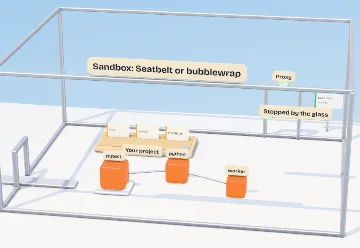
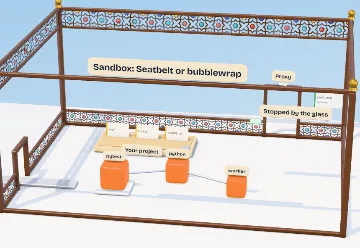
Hold the sandbox's glass in walnut lattice, as an orosi holds its glass
Walnut posts and rails with brass finials, and bands of gereh-chini lattice with coloured glass in
its stars along the top and foot of the walls; the panes between stay clear and the front open.
The trip's stage matches, leaving the rail's slot and the proxy's door clear; Copilot's ghost of a
sandbox has no lattice.

diff --git a/src/lib/journey/tracks/sandbox.ts b/src/lib/journey/tracks/sandbox.ts
@@ -9,6 +9,8 @@ import { font } from '../kit/print';
 import { createIsland } from '../props/island';
 import { Cloudscape } from '../props/sky';
 import { low, TOOLS } from '../layout';
+import { palette } from '../sky/palette';
+import { latticeBand, latticeMaterial } from '../sky/persian';
 import type { HarnessId } from '../content';
 import type { Shot } from '../rig';
 
@@ -215,6 +217,8 @@ export class SandboxStage {
 	private outside: Record<'files' | 'mcp' | 'hooks', THREE.Group>;
 	private question: Card;
 	private glassMat: THREE.MeshPhysicalMaterial;
+	/** The lattice in the glass's walls: Copilot's glass, only a ghost of one, has none. */
+	private lattice: THREE.Object3D;
 	private signs: Record<HarnessId, THREE.Group>;
 	private harnessId: HarnessId = 'claude';
 	private v = new THREE.Vector3();
@@ -354,28 +358,71 @@ export class SandboxStage {
 		dialSign.position.set(DIAL_AT.x, 2.46 + grown(0.16), DIAL_AT.z);
 		g.add(dialSign);
 
-		/* -- the glass -- */
+		/* -- the glass, held as the story's is: walnut posts and rails, brass finials, bands of lattice (sky/persian.ts) -- */
+		const pc = palette();
+		const wood = pc.walnut;
 		const frame = new Batch();
-		for (const x of [G0, G1]) for (const z of [GZ0, GZ1]) frame.add(rbox(0.14, GH, 0.14, 0.04, 2), m.steel, { p: [x, GH / 2, z] });
+		for (const x of [G0, G1])
+			for (const z of [GZ0, GZ1]) {
+				frame.add(rbox(0.18, GH, 0.18, 0.04, 2), wood, { p: [x, GH / 2, z] });
+				frame.add(new THREE.CylinderGeometry(0.1, 0.13, 0.08, 14), pc.brass, { p: [x, GH + 0.1, z] });
+				frame.add(new THREE.SphereGeometry(0.12, 14, 10), pc.brass, { p: [x, GH + 0.25, z] });
+			}
 		for (const y of [0.07, GH]) {
-			for (const z of [GZ0, GZ1]) frame.add(rbox(G1 - G0, 0.12, 0.12, 0.03, 2), m.steel, { p: [(G0 + G1) / 2, y, z] });
-			frame.add(rbox(0.12, 0.12, GZ1 - GZ0, 0.03, 2), m.steel, { p: [G1, y, 0] });
+			for (const z of [GZ0, GZ1]) frame.add(rbox(G1 - G0, 0.12, 0.12, 0.03, 2), wood, { p: [(G0 + G1) / 2, y, z] });
+			frame.add(rbox(0.12, 0.12, GZ1 - GZ0, 0.03, 2), wood, { p: [G1, y, 0] });
 			// On the left the bottom bar stops either side of the slot, so the rail runs in under nothing.
-			if (y > 1) frame.add(rbox(0.12, 0.12, GZ1 - GZ0, 0.03, 2), m.steel, { p: [G0, y, 0] });
+			if (y > 1) frame.add(rbox(0.12, 0.12, GZ1 - GZ0, 0.03, 2), wood, { p: [G0, y, 0] });
 			else
 				for (const [z0, z1] of [
 					[GZ0, RAIL_Z - SLOT_HALF],
 					[RAIL_Z + SLOT_HALF, GZ1]
 				])
-					frame.add(rbox(0.12, 0.12, z1 - z0, 0.03, 2), m.steel, { p: [G0, y, (z0 + z1) / 2] });
+					frame.add(rbox(0.12, 0.12, z1 - z0, 0.03, 2), wood, { p: [G0, y, (z0 + z1) / 2] });
 		}
-		// The slot the rail comes in through: a steel frame round a hole in the left wall.
-		frame.add(rbox(0.16, 0.12, SLOT_HALF * 2 + 0.16, 0.03, 2), m.steel, { p: [G0, SLOT_H, RAIL_Z] });
-		for (const z of [RAIL_Z - SLOT_HALF, RAIL_Z + SLOT_HALF]) frame.add(rbox(0.16, SLOT_H, 0.12, 0.03, 2), m.steel, { p: [G0, SLOT_H / 2, z] });
+		// The slot the rail comes in through: a walnut frame round a hole in the left wall.
+		frame.add(rbox(0.16, 0.12, SLOT_HALF * 2 + 0.16, 0.03, 2), wood, { p: [G0, SLOT_H, RAIL_Z] });
+		for (const z of [RAIL_Z - SLOT_HALF, RAIL_Z + SLOT_HALF]) frame.add(rbox(0.16, SLOT_H, 0.12, 0.03, 2), wood, { p: [G0, SLOT_H / 2, z] });
 		// The proxy's door in the back wall.
-		frame.add(rbox(1.3, 0.12, 0.2, 0.03, 2), m.steel, { p: [PROXY_X, 1.9, GZ0] });
-		for (const x of [PROXY_X - 0.6, PROXY_X + 0.6]) frame.add(rbox(0.12, 1.9, 0.2, 0.03, 2), m.steel, { p: [x, 0.95, GZ0] });
+		frame.add(rbox(1.3, 0.12, 0.2, 0.03, 2), wood, { p: [PROXY_X, 1.9, GZ0] });
+		for (const x of [PROXY_X - 0.6, PROXY_X + 0.6]) frame.add(rbox(0.12, 1.9, 0.2, 0.03, 2), wood, { p: [x, 0.95, GZ0] });
+		// The lattice: a band under the top rail of the back and both sides, and one over the foot, which leaves the
+		// slot and the proxy's door clear; a slim rail along each band's inner edge.
+		const lattice = new Batch();
+		const lm = latticeMaterial();
+		const BAND = { top: 0.6, foot: 0.45 };
+		for (const [y, h] of [
+			[GH - 0.06 - BAND.top / 2, BAND.top],
+			[0.13 + BAND.foot / 2, BAND.foot]
+		]) {
+			const foot = y < GH / 2;
+			const edge = foot ? y + h / 2 : y - h / 2;
+			const backSpans = foot
+				? [
+						[G0, PROXY_X - 0.6],
+						[PROXY_X + 0.6, G1]
+					]
+				: [[G0, G1]];
+			const leftSpans = foot
+				? [
+						[GZ0, RAIL_Z - SLOT_HALF],
+						[RAIL_Z + SLOT_HALF, GZ1]
+					]
+				: [[GZ0, GZ1]];
+			for (const [a, b] of backSpans) {
+				lattice.add(latticeBand(b - a - 0.16, h), lm, { p: [(a + b) / 2, y, GZ0] });
+				frame.add(rbox(b - a, 0.08, 0.1, 0.02, 2), wood, { p: [(a + b) / 2, edge, GZ0] });
+			}
+			lattice.add(latticeBand(GZ1 - GZ0 - 0.16, h), lm, { p: [G1, y, 0], r: [0, Math.PI / 2, 0] });
+			frame.add(rbox(0.1, 0.08, GZ1 - GZ0, 0.02, 2), wood, { p: [G1, edge, 0] });
+			for (const [a, b] of leftSpans) {
+				lattice.add(latticeBand(b - a - 0.16, h), lm, { p: [G0, y, (a + b) / 2], r: [0, Math.PI / 2, 0] });
+				frame.add(rbox(0.1, 0.08, b - a, 0.02, 2), wood, { p: [G0, edge, (a + b) / 2] });
+			}
+		}
 		g.add(frame.build('glass-frame'));
+		this.lattice = lattice.build('glass-lattice');
+		g.add(this.lattice);
 
 		this.glassMat = new THREE.MeshPhysicalMaterial({
 			color: '#cfe8ff',
@@ -533,6 +580,7 @@ export class SandboxStage {
 		for (const [key, sign] of Object.entries(this.signs)) sign.visible = key === id;
 		// Without an OS sandbox by default, Copilot's glass is only a ghost of one.
 		this.glassMat.opacity = id === 'copilot' ? 0.05 : 0.12;
+		this.lattice.visible = id !== 'copilot';
 	}
 
 	/** Puts a ride's sled at x along the rail, in the glass once it's past the slot. */

diff --git a/src/lib/journey/chapters/back.ts b/src/lib/journey/chapters/back.ts
@@ -19,6 +19,7 @@ import { callPath, reducerBehind, RETURN_REDUCER, returnPath } from '../cables';
 import { Desk } from '../sky/desk';
 import * as P from '../sky/masterplan';
 import { hazed, palette } from '../sky/palette';
+import { latticeBand, latticeMaterial } from '../sky/persian';
 import { bends } from '../kit/geometry';
 import type { Shot } from '../rig';
 
@@ -738,17 +739,42 @@ export class Back {
 		shade.position.set(WX, WY - 8, 0.4);
 		g.add(shade);
 
-		// Glass walls on steel posts.
+		// Glass walls held as an orosi holds its glass: walnut posts and rails, brass finials on the posts, and a band of
+		// lattice along the top of the back and sides and another along their feet, coloured glass in its stars (see
+		// sky/persian.ts). The panes between the bands are clear, so it still reads at a glance as a box of glass, and the
+		// front is left open, so nothing comes between you and what runs inside.
 		const W = 26;
 		const D = 11;
 		const H = 8;
 		const x0 = WX - W / 2;
 		const x1 = WX + W / 2;
+		const BAND = { top: 1.2, foot: 0.8 };
+		const pc = palette();
 		const f = new Batch();
-		for (const x of [x0, x1]) for (const z of [-D / 2, D / 2]) f.add(rbox(0.16, H, 0.16, 0.05, 2), m.steel, { p: [x, WY + H / 2, z] });
-		for (const y of [0.08, H]) {
-			for (const z of [-D / 2, D / 2]) f.add(rbox(W, 0.14, 0.14, 0.04, 2), m.steel, { p: [WX, WY + y, z] });
-			for (const x of [x0, x1]) f.add(rbox(0.14, 0.14, D, 0.04, 2), m.steel, { p: [x, WY + y, 0] });
+		const railTop = H - 0.05;
+		const railFoot = 0.13;
+		for (const x of [x0, x1])
+			for (const z of [-D / 2, D / 2]) {
+				f.add(rbox(0.3, H + 0.07, 0.3, 0.06, 2), pc.walnut, { p: [x, WY + (H + 0.07) / 2, z] });
+				f.add(new THREE.CylinderGeometry(0.17, 0.22, 0.12, 16), pc.brass, { p: [x, WY + H + 0.13, z] });
+				f.add(new THREE.SphereGeometry(0.21, 16, 12), pc.brass, { p: [x, WY + H + 0.38, z] });
+			}
+		for (const y of [railFoot, railTop]) {
+			for (const z of [-D / 2, D / 2]) f.add(rbox(W, 0.24, 0.24, 0.05, 2), pc.walnut, { p: [WX, WY + y, z] });
+			for (const x of [x0, x1]) f.add(rbox(0.24, 0.24, D, 0.05, 2), pc.walnut, { p: [x, WY + y, 0] });
+		}
+		// The bands, and the slimmer rails along their inner edges, on the back and the sides.
+		const lattice = latticeMaterial();
+		const bands: [number, number][] = [
+			[railTop - 0.12 - BAND.top / 2, BAND.top],
+			[railFoot + 0.12 + BAND.foot / 2, BAND.foot]
+		];
+		for (const [y, h] of bands) {
+			f.add(latticeBand(W - 0.3, h), lattice, { p: [WX, WY + y, -D / 2] });
+			for (const x of [x0, x1]) f.add(latticeBand(D - 0.3, h), lattice, { p: [x, WY + y, 0], r: [0, Math.PI / 2, 0] });
+			const edge = y > H / 2 ? y - h / 2 : y + h / 2;
+			f.add(rbox(W, 0.12, 0.14, 0.03, 2), pc.walnut, { p: [WX, WY + edge, -D / 2] });
+			for (const x of [x0, x1]) f.add(rbox(0.14, 0.12, D, 0.03, 2), pc.walnut, { p: [x, WY + edge, 0] });
 		}
 		this.frame = f.build('sandbox-frame');
 		g.add(this.frame);
